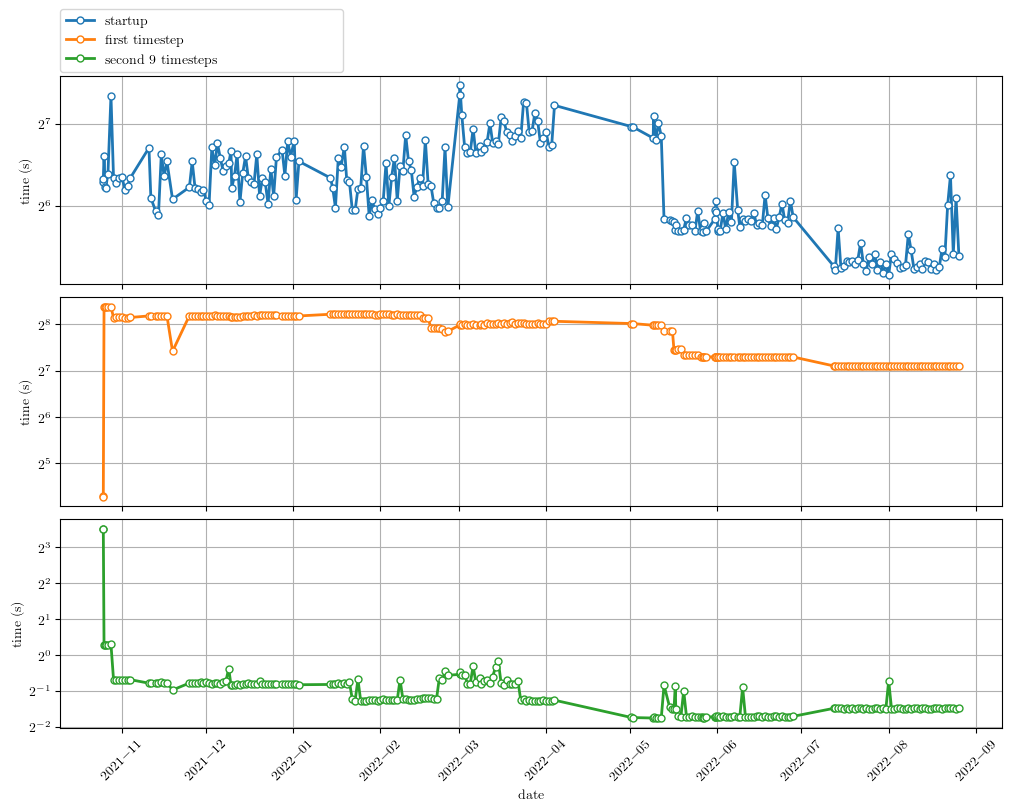
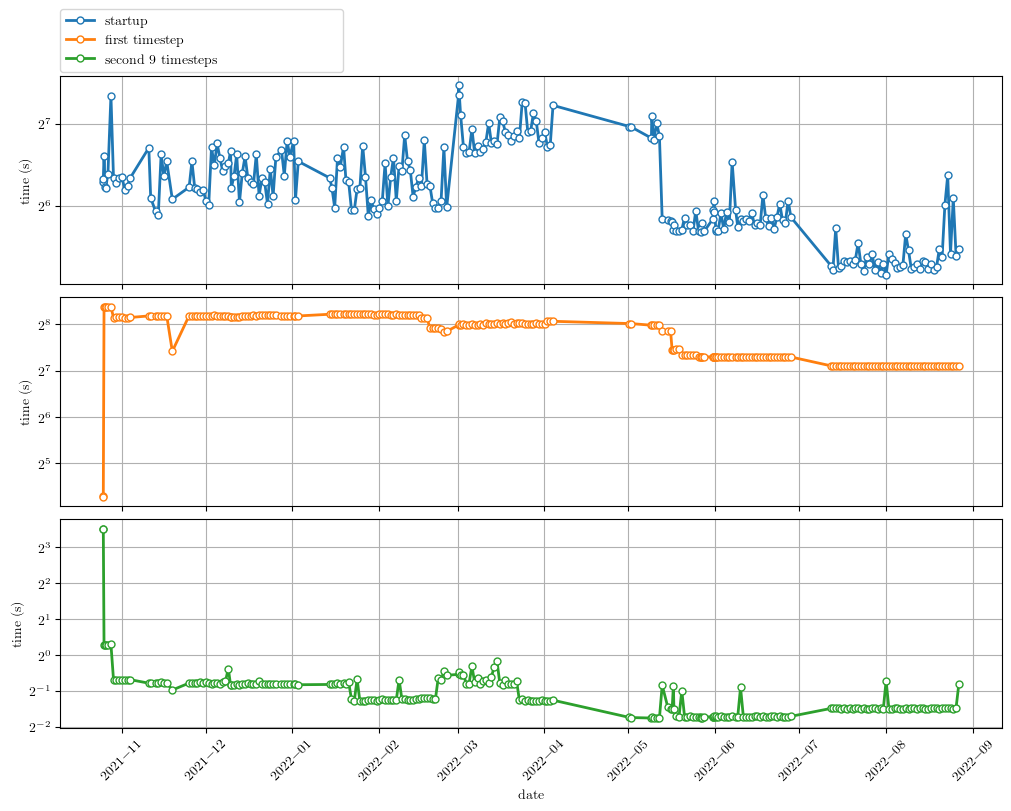
Automatic timing summary commit: lassen708 2022-08-27 01:00

diff --git a/README.md b/README.md
@@ -1,4 +1,4 @@
-Timings last ran on: 2022.08.26
+Timings last ran on: 2022.08.27
 
 # Status of production timings
 
